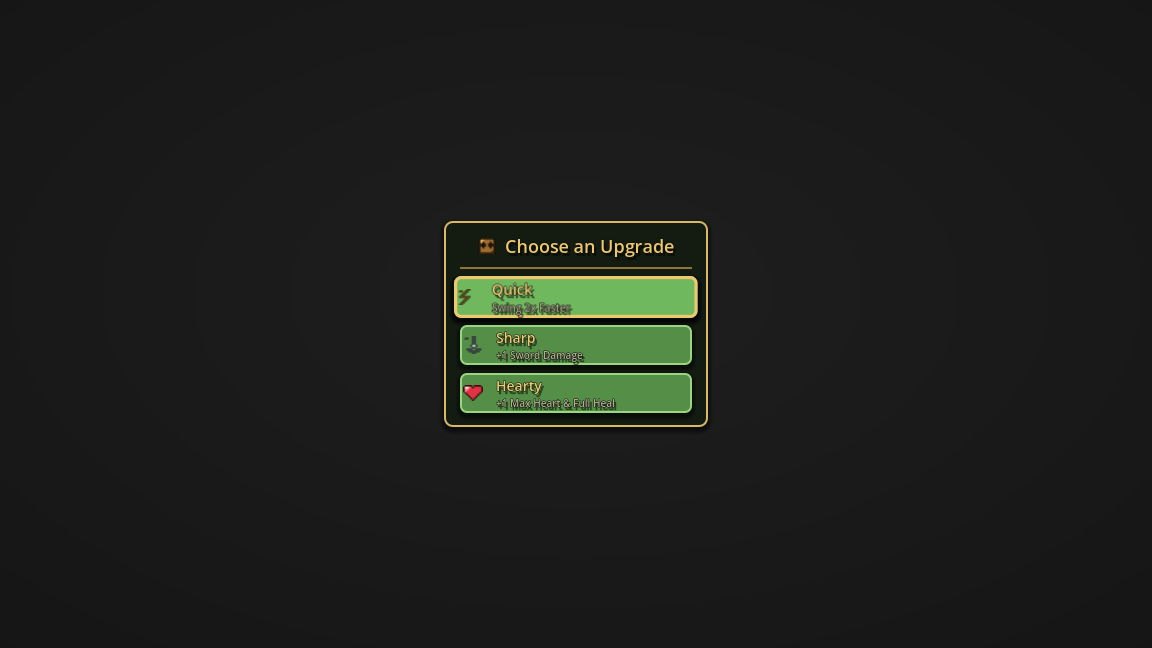
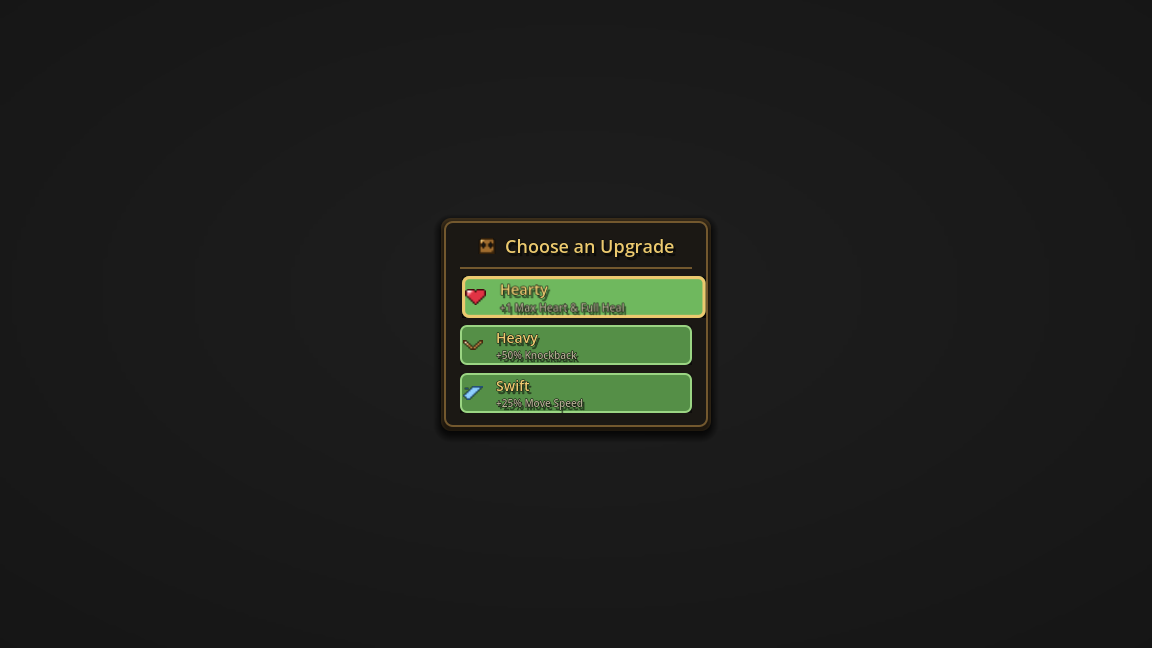
Recapture UI screenshots and update README features

diff --git a/README.md b/README.md
@@ -27,6 +27,9 @@ roguelike upgrades, and see how long you can survive the woods.
 - Zelda-style heart HUD, and a miniboss that shows its own hearts
 - Chest shrine with 6 upgrades: Hearty, Swift, Sharp, Quick, Heavy, Sturdy
 - Y-sorted trees, cliffs you can hop down, knockback combat with i-frames
+- Retro-arcade UI juice: breathing menu with drifting fireflies, squash-and-stretch
+  buttons, staggered upgrade cards with hover glow + highlight sweep, hearts that
+  shake and flash on damage (pulse on heal), and an elastic "You Died" cinematic
 - Pixel-art UI built entirely in code (`scripts/ui_theme.gd`)
 
 ## Running
